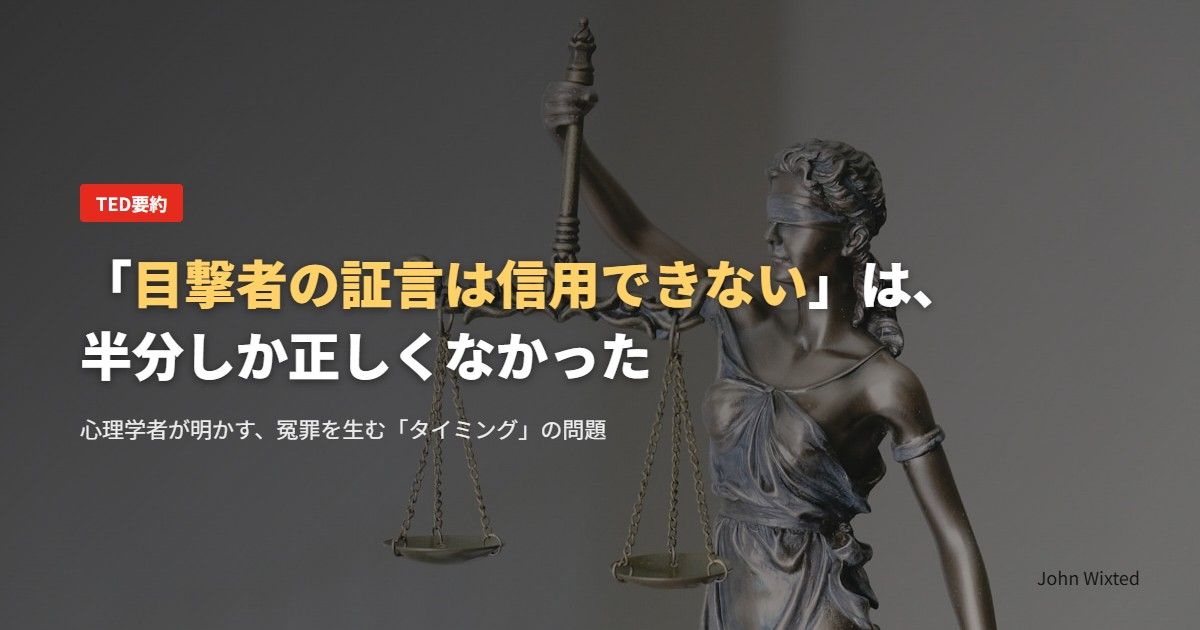
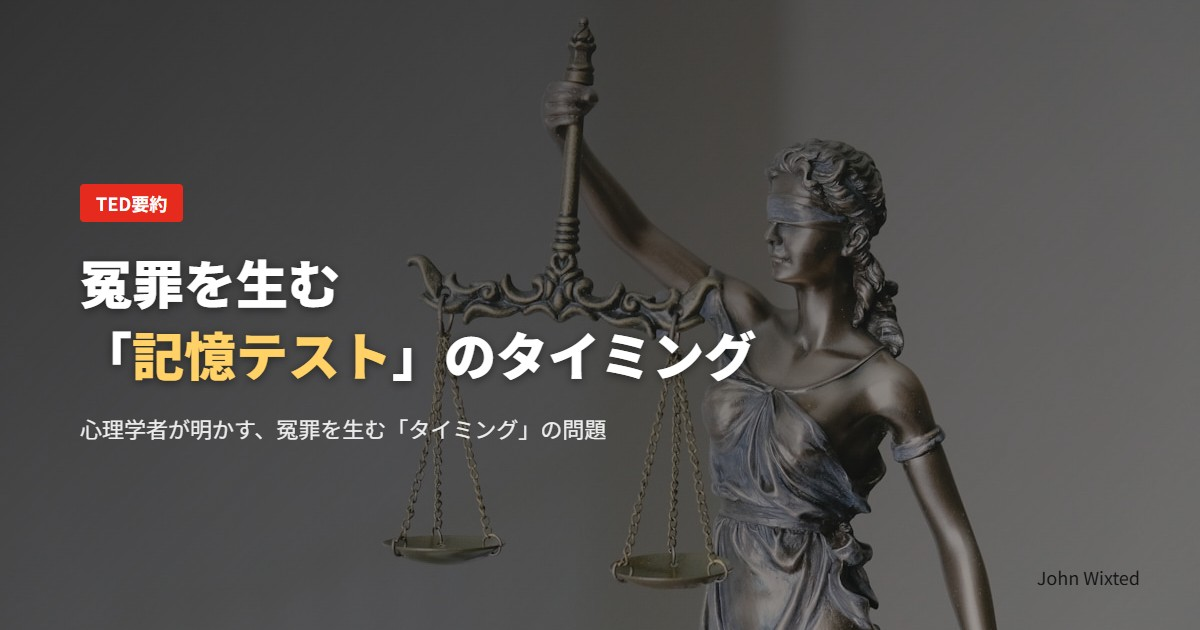
Update: 目撃証言記事のタイトルを短く変更

Changed region(s): [[0.0617, 0.3921, 0.7708, 0.6032]]

diff --git a/content/posts/2026-02-17-the-new-science-of-eyewitness-memory.md b/content/posts/2026-02-17-the-new-science-of-eyewitness-memory.md
@@ -1,5 +1,5 @@
 ---
-title: "「目撃者の証言は信用できない」は、半分しか正しくなかった"
+title: "冤罪を生む「記憶テスト」のタイミング"
 date: 2026-02-17T00:00:00+09:00
 description: "DNA鑑定で冤罪が次々と発覚。「目撃証言は当てにならない」が常識になった。でも心理学者は言う——問題は記憶じゃなく、裁判所が記憶をテストする「タイミング」だった。"
 tags: ["心理学", "記憶", "司法", "科学"]
